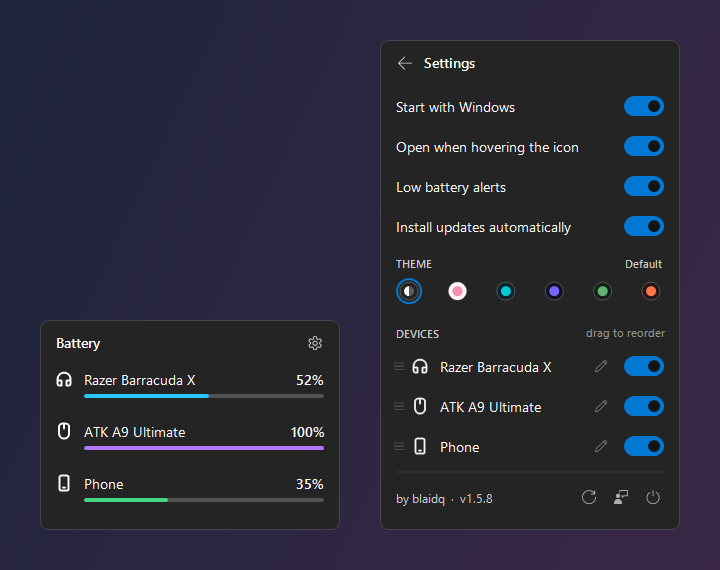
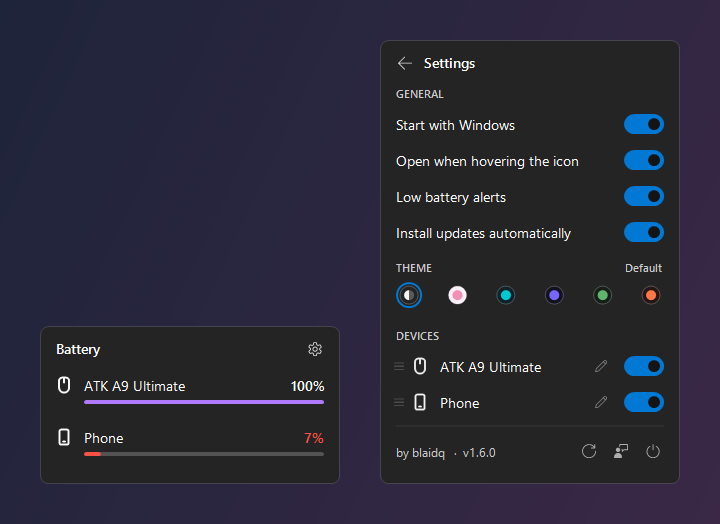
v1.6.0: tidier settings, GitHub links, Bluetooth reads no longer block the panel
- Settings: GENERAL section, shorter rows, the phone row looks like the other
  devices; 'No devices found' shows again when Phone Link is installed
- Footer: 'blaidq' opens the author's GitHub, the version opens the app's page
- Slow Bluetooth reads (earbuds, generic scan) run on their own threads, so a
  hanging Bluetooth call no longer keeps every device off the panel
- Edit device: the model list is gone; naming the mouse 'ATK A9 Ultimate'
  turns on its battery curve
- New screenshot, README

diff --git a/src/UI.cs b/src/UI.cs
@@ -445,7 +445,7 @@ class BatteryUI : ApplicationContext
         }
         if (LayeredWindow.DumpDir != null)
         {
-            var t = new System.Windows.Forms.Timer { Interval = 7000 };
+            var t = new System.Windows.Forms.Timer { Interval = 10000 };
             t.Tick += delegate
             {
                 t.Stop(); phase = 0.5f;
@@ -562,13 +562,17 @@ class BatteryUI : ApplicationContext
         if (Interlocked.Exchange(ref busy, 1) == 1) return;
         ThreadPool.QueueUserWorkItem(delegate
         {
-            Reading h = Safe(dHead.Read), m = Safe(dMouse.Read), b = Safe(dBuds.Read);
+            // USB devices answer in milliseconds. Bluetooth reads (earbuds over RFCOMM, the generic scan) can hang for
+            // a minute when the radio is busy, so they run on their own threads and the panel uses their last result.
+            Reading h = Safe(dHead.Read), m = Safe(dMouse.Read);
+            Reading b = budsRead.Get(() => Safe(dBuds.Read), Kick) ?? new Reading();
             List<Found> gen = null;
-            if ((DateTime.Now - genericAt).TotalSeconds >= 9)
+            if ((DateTime.Now - genericAt).TotalSeconds >= 9 && !genericRead.Running)
             {
-                try { gen = GenericDevices.Read(); } catch { gen = new List<Found>(); }
                 genericAt = DateTime.Now;
+                genericRead.Start(() => { try { return GenericDevices.Read(); } catch { return new List<Found>(); } }, Kick);
             }
+            gen = genericRead.Take();
             invoker.BeginInvoke((Action)delegate
             {
                 Interlocked.Exchange(ref busy, 0);
@@ -577,6 +581,7 @@ class BatteryUI : ApplicationContext
                 mouse.Name = dMouse.DeviceName; mouse.Kind = Kind.Mouse;
                 Apply(head, h); Apply(mouse, m); Apply(buds, b);
                 if (gen != null) generic = gen;
+                if (!Settings.PhoneLink) generic.RemoveAll(x => x.Id == "phonelink"); // switched off while a scan was running
                 ApplyGeneric();
                 ApplyOverrides();
                 DrawIcon();
@@ -586,6 +591,9 @@ class BatteryUI : ApplicationContext
     }
 
     static Reading Safe(Func<Reading> f) { try { return f(); } catch { return new Reading(); } }
+
+    readonly Background<Reading> budsRead = new Background<Reading>(4);
+    readonly Background<List<Found>> genericRead = new Background<List<Found>>(0);
 
     void Apply(Slot d, Reading r)
     {
@@ -649,7 +657,6 @@ class BatteryUI : ApplicationContext
             {
                 if (dlg.Reset) DeviceOverrides.Clear(s.Id);
                 else DeviceOverrides.Set(s.Id, dlg.NameText == s.RealName ? "" : dlg.NameText, dlg.Chosen);
-                if (dlg.ModelChoice >= 0) AtkMouse.Model = dlg.Reset ? 0 : dlg.ModelChoice;
                 s.Name = s.RealName; s.Kind = s.RealKind;
                 ApplyOverrides();
                 DrawIcon();
@@ -1000,7 +1007,7 @@ class BatteryUI : ApplicationContext
 
     static bool Multi(Slot s) { return s.Last.Parts != null && s.Last.Parts.Count > 0; }
 
-    const float PW = 300, PPad = 16, HeadH = 46, RowH = 52, MultiRowH = 80, SetRowH = 40, ThemeRowH = 40;
+    const float PW = 300, PPad = 16, HeadH = 46, RowH = 52, MultiRowH = 80, SetRowH = 36, ThemeRowH = 38;
 
     void DrawPanel()
     {
@@ -1010,7 +1017,7 @@ class BatteryUI : ApplicationContext
         bool empty = !settingsView && devs.Count == 0;
 
         float hh = HeadH;
-        if (settingsView) hh += SetRowH * 4 + 30 + ThemeRowH + 30 + Math.Max(1, devs.Count + (PhoneOffRow ? 1 : 0)) * SetRowH + 56;
+        if (settingsView) hh += 20 + SetRowH * 4 + 30 + ThemeRowH + 30 + Math.Max(1, devs.Count + (PhoneOffRow ? 1 : 0)) * SetRowH + 56;
         else if (empty) hh += 64;
         else foreach (var s in devs) hh += Multi(s) ? MultiRowH : RowH;
         hh += 8;
@@ -1091,7 +1098,7 @@ class BatteryUI : ApplicationContext
         {
             float L = PPad * k, R = W - PPad * k, y = HeadH * k;
             float gs = 16 * k, tx = L + gs + 12 * k;
-            if (devs.Count == 0 && !PhoneOffRow)
+            if (devs.Count == 0)
             {
                 using (var br = new SolidBrush(fg)) g.DrawString("No devices found", fName, br, L, y + 6 * k, sf);
                 using (var br = new SolidBrush(sub)) g.DrawString("Turn on or connect a wireless device", fSmall, br, L, y + 30 * k, sf);
@@ -1142,6 +1149,8 @@ class BatteryUI : ApplicationContext
         using (var fSmall = new Font("Segoe UI Semibold", 11.5f * k, GraphicsUnit.Pixel))
         {
             float L = PPad * k, R = W - PPad * k, y = HeadH * k;
+            using (var br = new SolidBrush(sub)) g.DrawString("GENERAL", fSmall, br, L, y, sf);
+            y += 20 * k;
             Toggle(g, f, L, R, ref y, null, "Start with Windows", IsAutoStart(), delegate { SetAutoStart(!IsAutoStart()); });
             Toggle(g, f, L, R, ref y, null, "Open when hovering the icon", Settings.HoverOpen, delegate { Settings.HoverOpen = !Settings.HoverOpen; });
             Toggle(g, f, L, R, ref y, null, "Low battery alerts", Settings.Alerts, delegate { Settings.Alerts = !Settings.Alerts; });
@@ -1161,13 +1170,9 @@ class BatteryUI : ApplicationContext
             using (var br = new SolidBrush(sub))
             {
                 g.DrawString("DEVICES", fSmall, br, L, y, sf);
-                string hint = "drag to reorder";
-                using (var fh = new Font("Segoe UI", 11.5f * k, GraphicsUnit.Pixel))
-                using (var bh = new SolidBrush(Look.A(fg, Look.Light ? 120 : 110)))
-                    g.DrawString(hint, fh, bh, R - MeasureW(g, fh, hint), y - 1 * k, sf);
             }
             y += 20 * k;
-            if (devs.Count == 0)
+            if (devs.Count == 0 && !PhoneOffRow)
             {
                 using (var br = new SolidBrush(sub)) g.DrawString("No devices connected", f, br, L, y + 10 * k, sf);
                 y += SetRowH * k;
@@ -1198,7 +1203,13 @@ class BatteryUI : ApplicationContext
             }
             // phone battery is opt-in: offered as a switched-off device row when Phone Link is installed
             if (PhoneOffRow)
-                Toggle(g, f, L, R, ref y, phoneOffSlot, "Phone (Phone Link)", false, delegate { SetPhoneLink(true); }, false);
+            {
+                string own; Kind ok;
+                bool has = DeviceOverrides.Get("phonelink", out own, out ok);
+                phoneOffSlot.Name = phoneOffSlot.RealName = has && !string.IsNullOrEmpty(own) ? own : "Phone (Phone Link)";
+                phoneOffSlot.Kind = has ? ok : Kind.Phone;
+                Toggle(g, f, L, R, ref y, phoneOffSlot, phoneOffSlot.Name, false, delegate { SetPhoneLink(true); }, false);
+            }
             if (dragging && devRows.Count > 1)
             {
                 // where the dragged device will land
@@ -1226,19 +1237,46 @@ class BatteryUI : ApplicationContext
             string left = footerLabel                                   // name of the hovered button
                 ?? (fresh(reportStatus, lastRepAt) ? reportStatus : null)
                 ?? (fresh(Updater.Status, lastUpdAt) ? Updater.Status : null)
-                ?? "by blaidq  ·  " + ver;
+                ?? null;
             using (var fs = new Font("Segoe UI", 12.5f * k, GraphicsUnit.Pixel))
             {
-                float maxW = bx - L - 6 * k;
-                string t = left;
-                while (t.Length > 4 && MeasureW(g, fs, t) > maxW) t = t.Substring(0, t.Length - 2);
-                if (t != left) t = t.TrimEnd() + "…";
-                using (var br = new SolidBrush(footerLabel != null ? fg : sub)) g.DrawString(t, fs, br, L, y + 7 * k, sf);
+                if (left == null)
+                {
+                    // credit: "blaidq" opens the author's GitHub, the version opens the app's GitHub page
+                    // (GenericTypographic ignores trailing spaces when measuring, so gaps are added explicitly)
+                    float x = L, ty = y + 7 * k, space = MeasureW(g, fs, "a a") - MeasureW(g, fs, "aa");
+                    using (var br = new SolidBrush(sub)) g.DrawString("by", fs, br, x, ty, sf);
+                    x += MeasureW(g, fs, "by") + space;
+                    x = FooterLink(g, fs, x, ty, "blaidq", "https://github.com/blaidq-a", sub) + space * 2;
+                    using (var br = new SolidBrush(sub)) g.DrawString("·", fs, br, x, ty, sf);
+                    x += MeasureW(g, fs, "·") + space * 2;
+                    FooterLink(g, fs, x, ty, ver, "https://github.com/blaidq-a/BatteryRings", sub);
+                }
+                else
+                {
+                    float maxW = bx - L - 6 * k;
+                    string t = left;
+                    while (t.Length > 4 && MeasureW(g, fs, t) > maxW) t = t.Substring(0, t.Length - 2);
+                    if (t != left) t = t.TrimEnd() + "…";
+                    using (var br = new SolidBrush(footerLabel != null ? fg : sub)) g.DrawString(t, fs, br, L, y + 7 * k, sf);
+                }
             }
         }
     }
 
-    readonly Slot phoneOffSlot = new Slot { Id = "phonelink-off", Name = "Phone (Phone Link)", Kind = Kind.Phone };
+    // Clickable footer text: brighter and underlined on hover, opens the url in the browser. Returns the right edge.
+    float FooterLink(Graphics g, Font fs, float x, float y, string text, string url, Color normal)
+    {
+        float k = Look.K, w = MeasureW(g, fs, text);
+        int idx = hits.Count;
+        hits.Add(new Hit { R = new RectangleF(x - 2 * k, y - 4 * k, w + 4 * k, 24 * k), A = delegate { try { System.Diagnostics.Process.Start(url); } catch { } } });
+        bool h = hot == idx;
+        using (var br = new SolidBrush(h ? Look.Fg : normal)) g.DrawString(text, fs, br, x, y, StringFormat.GenericTypographic);
+        if (h) using (var pen = new Pen(Look.A(Look.Fg, 160), 1f * k)) g.DrawLine(pen, x, y + 16 * k, x + w, y + 16 * k);
+        return x + w;
+    }
+
+    readonly Slot phoneOffSlot = new Slot { Id = "phonelink", Name = "Phone (Phone Link)", Kind = Kind.Phone };
     bool PhoneOffRow { get { return !Settings.PhoneLink && PhoneLink.Installed; } }
 
     void SetPhoneLink(bool on)
@@ -1325,22 +1363,23 @@ class BatteryUI : ApplicationContext
         return i;
     }
 
-    void Toggle(Graphics g, Font f, float L, float R, ref float y, Slot dev, string label, bool on, Action a, bool editable = true)
+    void Toggle(Graphics g, Font f, float L, float R, ref float y, Slot dev, string label, bool on, Action a, bool draggable = true)
     {
         float k = Look.K;
         var row = new RectangleF(L - 8 * k, y, R - L + 16 * k, SetRowH * k);
+        float c = y + SetRowH * k / 2; // vertical centre of the row
         int penHit = -1;
         RectangleF pr = RectangleF.Empty;
-        if (dev != null && editable)
+        if (dev != null)
         {
             // pencil: rename / change icon (added first so it wins over the row's click area)
-            pr = new RectangleF(R - 40 * k - 36 * k, y + 7 * k, 26 * k, 26 * k);
+            pr = new RectangleF(R - 40 * k - 36 * k, c - 13 * k, 26 * k, 26 * k);
             penHit = hits.Count;
             var dv = dev;
             hits.Add(new Hit { R = pr, A = delegate { EditDevice(dv); } });
         }
         // only the switch itself toggles; clicking the name does nothing (and starts a drag for devices)
-        var swHit = new RectangleF(R - 40 * k - 6 * k, y + 4 * k, 52 * k, SetRowH * k - 8 * k);
+        var swHit = new RectangleF(R - 40 * k - 6 * k, y + 3 * k, 52 * k, SetRowH * k - 6 * k);
         int idx = hits.Count;
         hits.Add(new Hit { R = swHit, A = a });
         if (hot == idx || (penHit >= 0 && hot == penHit))
@@ -1358,18 +1397,18 @@ class BatteryUI : ApplicationContext
         if (dev != null)
         {
             // grip: the row can be dragged up or down
-            if (editable) Look.Icon(g, "\uE700", new RectangleF(L - 4 * k, y + 13 * k, 14 * k, 14 * k), 10 * k, Look.A(Look.Fg, hot == idx ? 170 : 90));
-            Look.Glyph(g, dev.Kind, new RectangleF(L + 16 * k, y + 12 * k, 16 * k, 16 * k), Look.A(Look.Fg, editable ? 200 : 120));
+            if (draggable) Look.Icon(g, "\uE700", new RectangleF(L - 4 * k, c - 7 * k, 14 * k, 14 * k), 10 * k, Look.A(Look.Fg, hot == idx ? 170 : 90));
+            Look.Glyph(g, dev.Kind, new RectangleF(L + 16 * k, c - 8 * k, 16 * k, 16 * k), Look.A(Look.Fg, 200));
             tx += 44 * k;
         }
         string t = label;
         float maxW = R - tx - (dev != null ? 86 : 52) * k;
         while (t.Length > 4 && g.MeasureString(t, f, PointF.Empty, StringFormat.GenericTypographic).Width > maxW) t = t.Substring(0, t.Length - 2);
         if (t != label) t = t.TrimEnd() + "…";
-        using (var br = new SolidBrush(editable ? Look.Fg : Look.A(Look.Fg, 150))) g.DrawString(t, f, br, tx, y + 11 * k, StringFormat.GenericTypographic);
+        using (var br = new SolidBrush(Look.Fg)) g.DrawString(t, f, br, tx, c - 9 * k, StringFormat.GenericTypographic);
 
         // Windows 11 style switch
-        var sw = new RectangleF(R - 40 * k, y + 10 * k, 40 * k, 20 * k);
+        var sw = new RectangleF(R - 40 * k, c - 10 * k, 40 * k, 20 * k);
         using (var p = Look.Round(sw, 10 * k))
         {
             if (on) using (var br = new SolidBrush(Look.Accent)) g.FillPath(br, p);
@@ -1538,9 +1577,6 @@ class DeviceEditor : Form
     readonly Slot slot;
     Color bg, fg;
     int hover = -1;
-    // Compx mice only: which mouse this is. Decides how the battery percentage is worked out (AtkMouse.Model)
-    readonly ComboBox model;
-    public int ModelChoice { get { return model != null ? model.SelectedIndex : -1; } }
     const int Inner = 368; // content width
 
     public DeviceEditor(Slot s)
@@ -1558,8 +1594,7 @@ class DeviceEditor : Form
         StartPosition = FormStartPosition.CenterScreen;
         BackColor = bg; ForeColor = fg;
         Font = new Font("Segoe UI", 10f);
-        bool compx = s.Id == "atk-mouse";
-        int extra = compx ? 58 : 0;
+        int extra = 0;
         ClientSize = new Size((int)((Inner + 32) * k), (int)((232 + extra) * k));
         DoubleBuffered = true;
 
@@ -1580,20 +1615,6 @@ class DeviceEditor : Form
         AcceptButton = save; CancelButton = cancel;
         Controls.AddRange(new Control[] { lbl, box, lbl2, save, cancel, reset });
 
-        if (compx)
-        {
-            // If the mouse is detected wrong (e.g. two mice share one name), the user picks it here
-            var lbl3 = new Label { Text = "Model", AutoSize = true, Location = new Point((int)(16 * k), (int)(182 * k)), ForeColor = Look.A(fg, 190) };
-            model = new ComboBox
-            {
-                DropDownStyle = ComboBoxStyle.DropDownList, FlatStyle = FlatStyle.Flat,
-                Location = new Point((int)(16 * k), (int)(204 * k)), Width = (int)(Inner * k),
-                BackColor = Blend(bg, fg, 0.08f), ForeColor = fg
-            };
-            model.Items.AddRange(AtkMouse.Models);
-            model.SelectedIndex = AtkMouse.Model;
-            Controls.AddRange(new Control[] { lbl3, model });
-        }
 
         MouseMove += (o, e) => { int h = HitIcon(e.Location); if (h != hover) { hover = h; Invalidate(); } Cursor = h >= 0 ? Cursors.Hand : Cursors.Default; };
         MouseClick += (o, e) => { int h = HitIcon(e.Location); if (h >= 0) { Chosen = Kinds[h]; Invalidate(); } };
@@ -1730,4 +1751,45 @@ class ReportDialog : Form
         try { DwmSetWindowAttribute(Handle, 20, ref dark, 4); } catch { }
     }
     [DllImport("dwmapi.dll")] static extern int DwmSetWindowAttribute(IntPtr h, int attr, ref int val, int size);
+}
+
+// Runs one slow read at a time on its own thread and keeps the latest result,
+// so a hanging Bluetooth call never holds up the other devices.
+class Background<T> where T : class
+{
+    readonly object lk = new object();
+    T last, fresh;
+    volatile bool running;
+    DateTime started = DateTime.MinValue;
+    readonly TimeSpan gap;
+    public Background(int minSeconds) { gap = TimeSpan.FromSeconds(minSeconds); }
+    public bool Running { get { return running; } }
+
+    // last result; starts a new read if none is running
+    public T Get(Func<T> read, Action done)
+    {
+        Start(read, done);
+        lock (lk) return last;
+    }
+
+    public void Start(Func<T> read, Action done)
+    {
+        lock (lk)
+        {
+            if (running || DateTime.Now - started < gap) return; // one at a time, and not back to back
+            running = true; started = DateTime.Now;
+        }
+        var t = new Thread(() =>
+        {
+            T r = null;
+            try { r = read(); } catch { }
+            lock (lk) { last = r; fresh = r; running = false; }
+            if (done != null) try { done(); } catch { }
+        });
+        t.IsBackground = true;
+        t.Start();
+    }
+
+    // the result of a read that finished since the last call, or null
+    public T Take() { lock (lk) { var r = fresh; fresh = null; return r; } }
 }

diff --git a/src/Devices.cs b/src/Devices.cs
@@ -481,9 +481,11 @@ class AtkMouse : Device
         }
         // The voltage curve and charge model were measured on an ATK A9 Ultimate (4.35 V LiHV cell).
         // Other models may use a different battery, so they keep the firmware's own percentage.
-        // The user can pick the model by hand (Settings > pencil > Model).
-        int m = Model;
-        IsAtk = m == 1 || (m == 0 && DeviceName.IndexOf("A9 Ultimate", StringComparison.OrdinalIgnoreCase) >= 0);
+        // A name the user gave the mouse (Settings > pencil) wins: renaming it to "ATK A9 Ultimate" turns the
+        // curve on, renaming it to anything else turns it off.
+        string own; Kind ownKind;
+        string effective = DeviceOverrides.Get("atk-mouse", out own, out ownKind) && !string.IsNullOrEmpty(own) ? own : DeviceName;
+        IsAtk = effective.IndexOf("A9 Ultimate", StringComparison.OrdinalIgnoreCase) >= 0;
     }
 
     // The dongle's own name is "Wireless mouse 8k dongle-L", but right after it is plugged in or Windows starts
@@ -506,19 +508,6 @@ class AtkMouse : Device
     {
         foreach (var v in k.GetValueNames()) if (v.StartsWith("MouseName_", StringComparison.OrdinalIgnoreCase)) return true;
         return false;
-    }
-
-    // Which Compx mouse this is, chosen by the user (Settings > pencil > Model). Index into Models:
-    // 0 detect from the name, 1 ATK A9 Ultimate (calibrated voltage curve), others: the mouse's own percentage.
-    public static readonly string[] Models = { "Detect automatically", "ATK A9 Ultimate", "Other ATK mouse", "VXE / VGN mouse", "Other mouse" };
-    public static int Model
-    {
-        get
-        {
-            try { using (var k = Registry.CurrentUser.OpenSubKey(StateKey)) { object v = k == null ? null : k.GetValue("MouseModel"); return v is int && (int)v >= 0 && (int)v < Models.Length ? (int)v : 0; } }
-            catch { return 0; }
-        }
-        set { try { using (var k = Registry.CurrentUser.CreateSubKey(StateKey)) k.SetValue("MouseModel", value, RegistryValueKind.DWord); } catch { } }
     }
 
     // Compx-based mice show up under more than one vendor id: the 2.4 GHz dongle as 373B (Compx),

diff --git a/src/Program.cs b/src/Program.cs
@@ -15,8 +15,8 @@ using Microsoft.Win32;
 [assembly: AssemblyProduct("BatteryRings")]
 [assembly: AssemblyCompany("BatteryRings")]
 [assembly: AssemblyCopyright("GPL-3.0")]
-[assembly: AssemblyVersion("1.5.9.0")]
-[assembly: AssemblyFileVersion("1.5.9.0")]
+[assembly: AssemblyVersion("1.6.0.0")]
+[assembly: AssemblyFileVersion("1.6.0.0")]
 // Guvenlik: P/Invoke DLL'leri yalnizca System32'den yuklenir (exe'nin yanina konan sahte DLL calismaz)
 [assembly: DefaultDllImportSearchPaths(DllImportSearchPath.System32)]
 

diff --git a/README.md b/README.md
@@ -27,7 +27,7 @@ Hover over (or click) the icon to see every device in detail.
 |---|---|---|
 | Razer | Barracuda X (2022) headset on its 2.4 GHz dongle, with charging state | ✅ |
 | Razer | Wireless mice and keyboards (dongle or cable) | – |
-| ATK / Compx | ATK A9 Ultimate: a steady percentage computed from the battery voltage (curve measured on this model). Other ATK models and other mice on Compx 2.4 GHz dongles (VID 373B; on the cable also VID 3554, e.g. VXE R1 SE+) show the percentage the mouse reports. The dongle does not tell the mouse's name, so it is learned the first time the mouse is plugged in by cable (with its dongle in the PC, the name is kept per dongle, so two such mice keep their own names). If it is detected wrong, pick the *Model* with the pencil | ✅ |
+| ATK / Compx | ATK A9 Ultimate: a steady percentage computed from the battery voltage (curve measured on this model). Other ATK models and other mice on Compx 2.4 GHz dongles (VID 373B; on the cable also VID 3554, e.g. VXE R1 SE+) show the percentage the mouse reports. The dongle does not tell the mouse's name, so it is learned the first time the mouse is plugged in by cable (with its dongle in the PC, the name is kept per dongle, so two such mice keep their own names). If it is detected wrong, rename it with the pencil: the ATK A9 Ultimate curve is used when the name contains "A9 Ultimate" | ✅ |
 | Nothing / CMF | CMF Buds Pro 2: left, right and case separately | ✅ |
 | Nothing / CMF | Nothing Ear (1) / (2) / (a) / (3) / (open) / (stick), other CMF Buds, Nothing and CMF headphones (same protocol) | – |
 | Apple | AirPods, AirPods Pro, AirPods Max and Beats: left, right and case in 10% steps, read from the Bluetooth LE broadcast while they are connected to this PC | – |
@@ -56,8 +56,8 @@ Click the gear in the panel:
 - Open the panel when hovering the icon (otherwise click it)
 - Theme: Default (follows Windows), Sakura, Aqua, Midnight, Forest, Sunset
 - Device order: drag a device up or down; the top one is the outer ring
-- Rename a device or change its icon (pencil); for Compx/ATK mice also pick the model if it was detected wrong
-- Footer buttons: check for updates, report a problem, quit
+- Rename a device or change its icon (pencil)
+- Footer buttons: check for updates, report a problem, quit; the author name and the version link to GitHub
 - Low battery alerts
 - Install updates automatically, and a **Check for updates** button
 - Phone battery: the *Phone (Phone Link)* switch under Devices, off by default (shown when Phone Link is installed)
